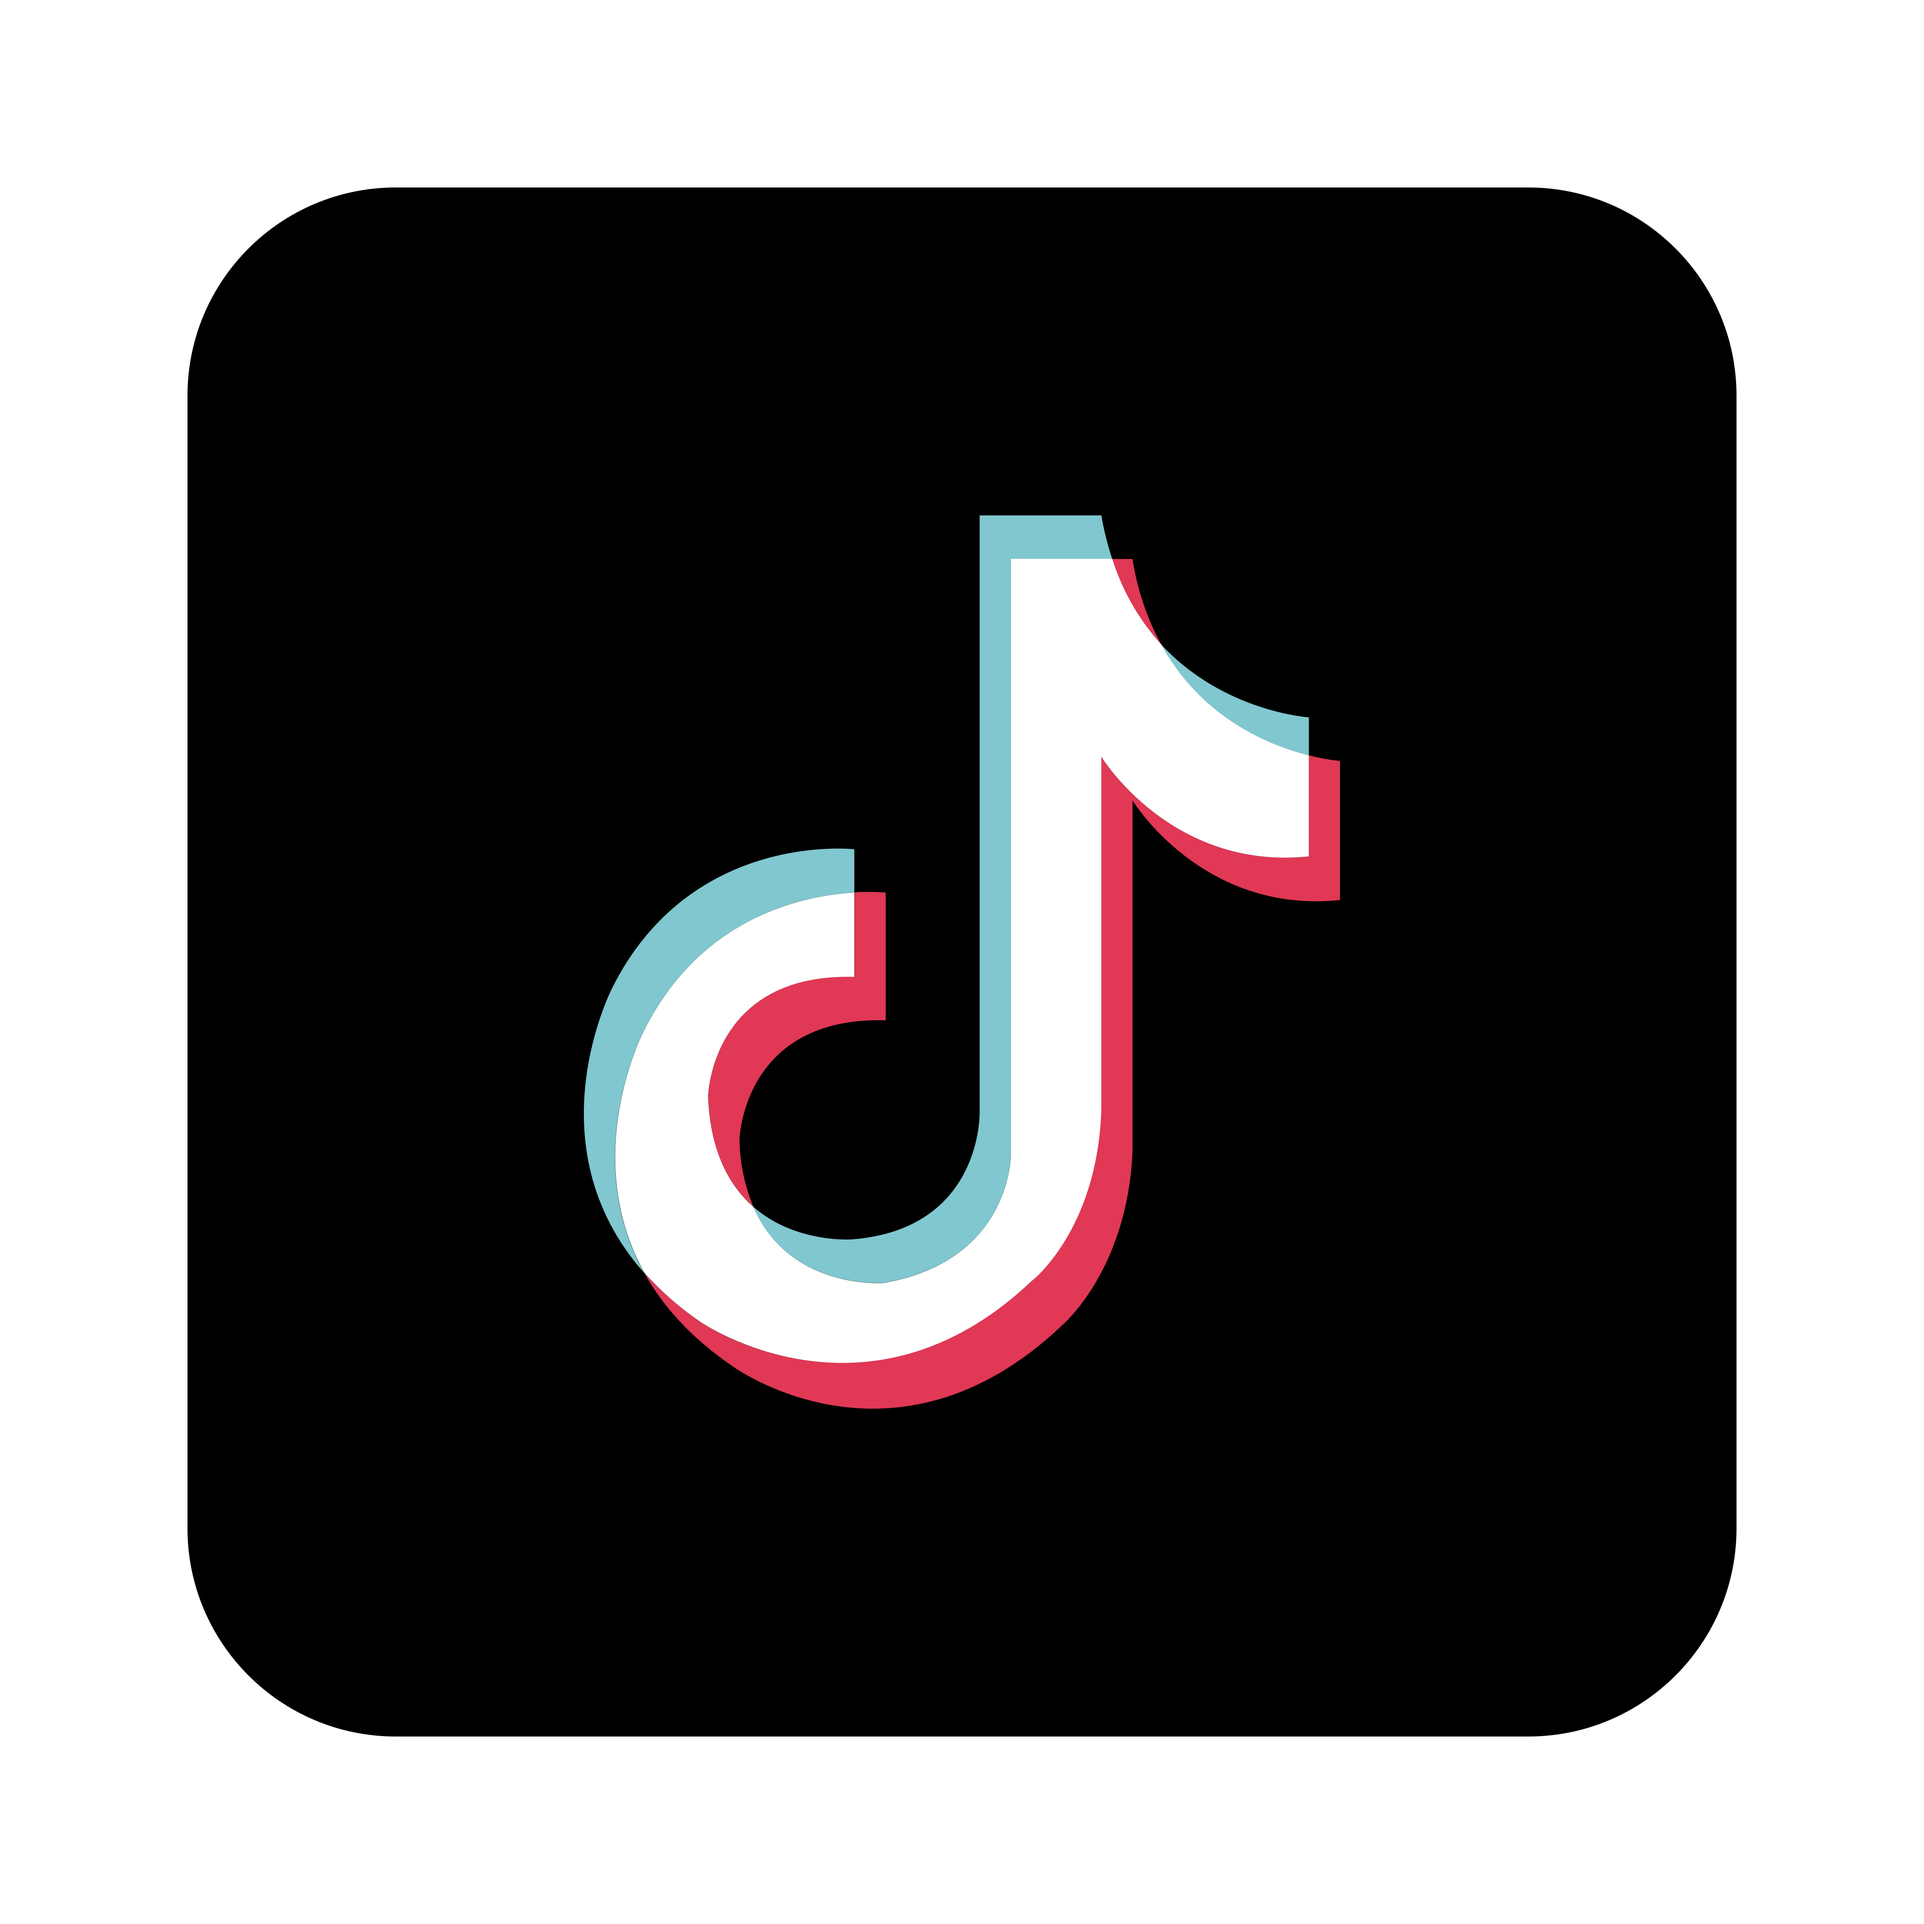
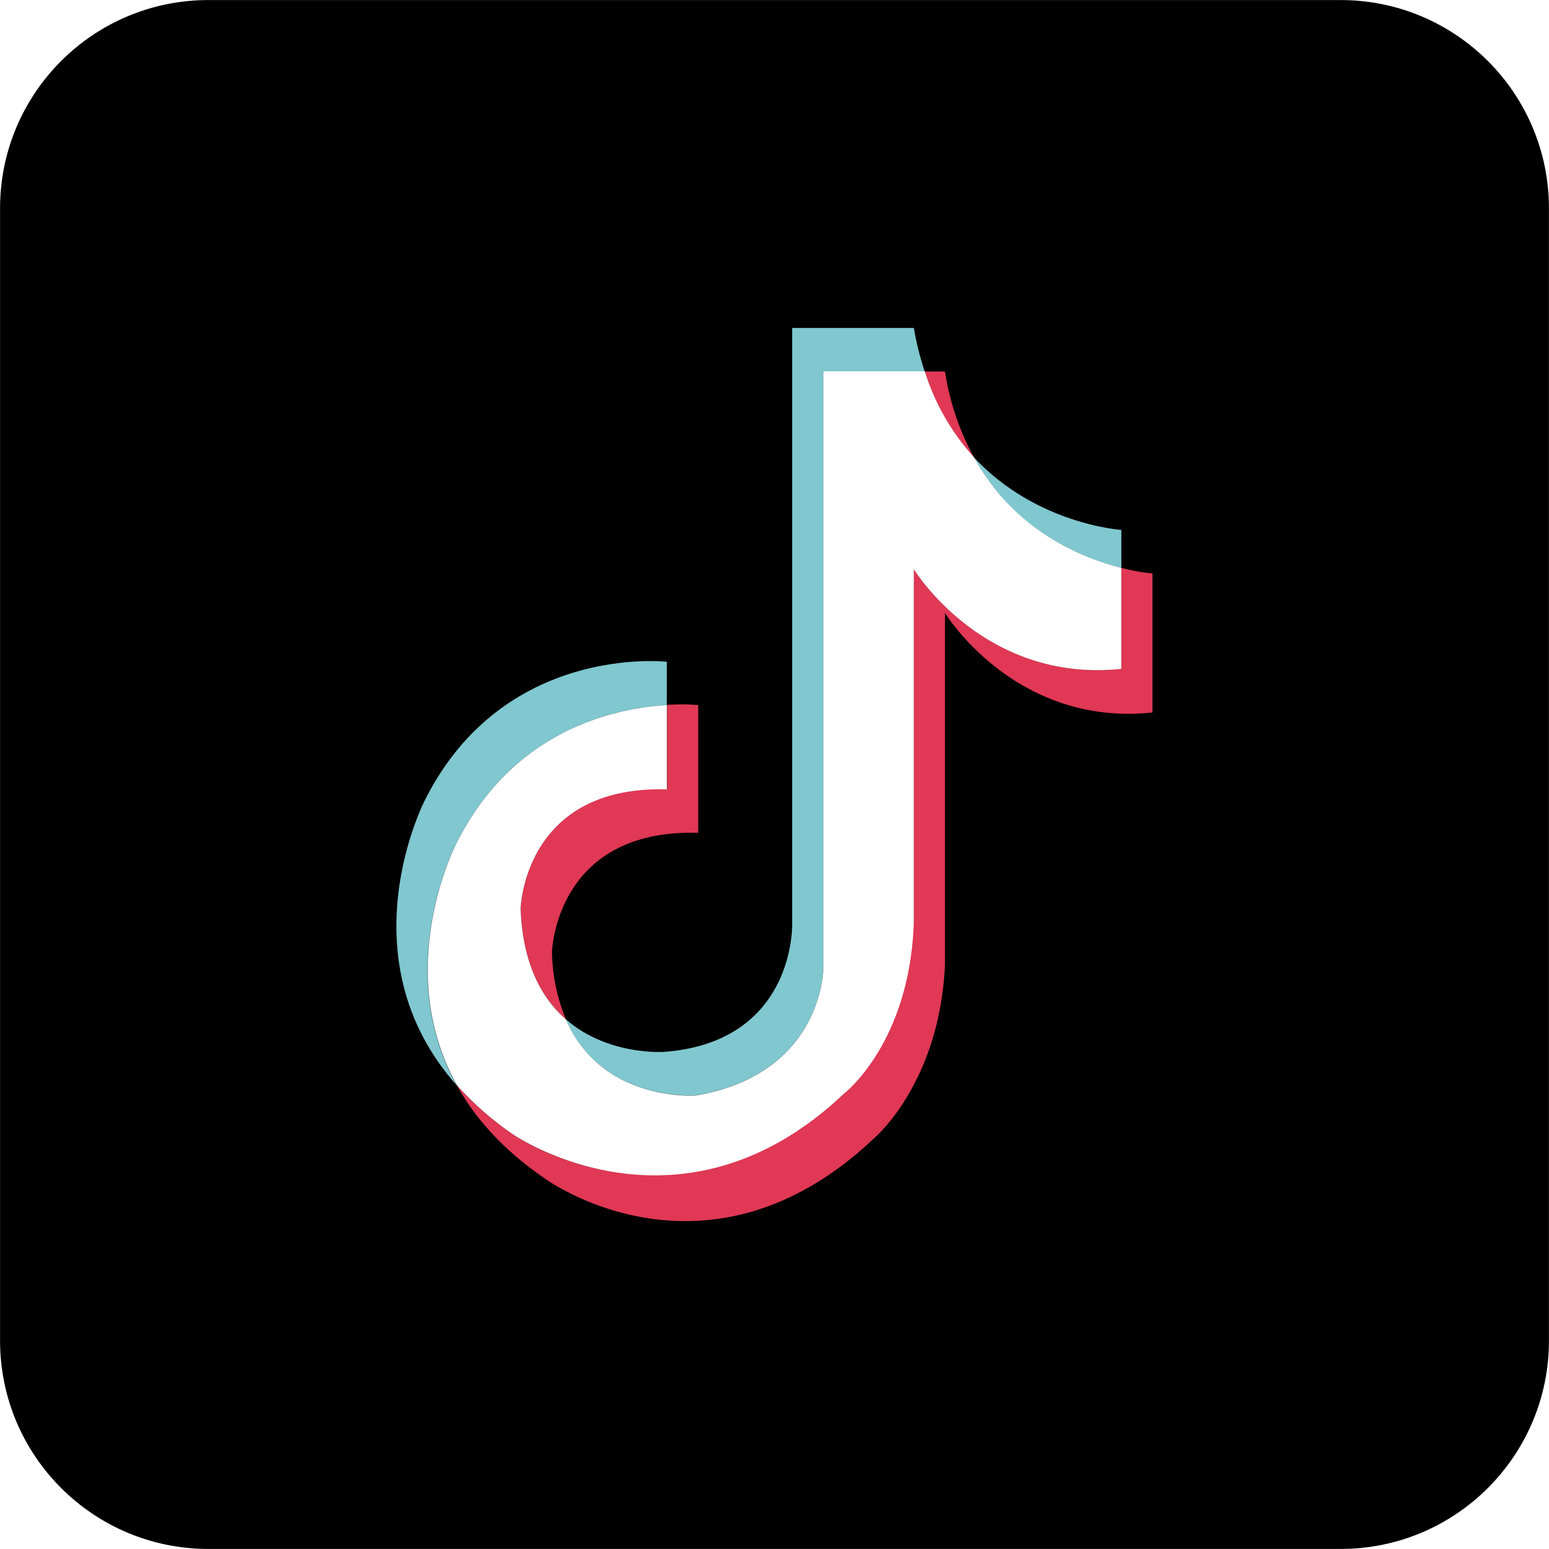
Tiktok update
Added tiktok link.

diff --git a/events.html b/events.html
@@ -60,6 +60,9 @@
                     <a href="https://t.me/lyceum4vn_bot">
                         <img src="https://cdn.iconscout.com/icon/free/png-256/free-bot-138-505021.png" alt="bot">
                     </a>
+                    <a href="https://www.tiktok.com/@lyceum4.vn?is_from_webapp=1&sender_device=pc">
+                        <img src="images/tiktok.png" alt="tiktok">
+                    </a>
                 </div>
             </li>
         </ul>
@@ -100,6 +103,9 @@
                     </a>
                     <a href="https://t.me/lyceum4vn_bot">
                         <img src="https://cdn.iconscout.com/icon/free/png-256/free-bot-138-505021.png" alt="bot">
+                    </a>
+                    <a href="https://www.tiktok.com/@lyceum4.vn?is_from_webapp=1&sender_device=pc">
+                        <img src="images/tiktok.png" alt="tiktok">
                     </a>
                 </div>
             </li>

diff --git a/gallery.html b/gallery.html
@@ -60,6 +60,9 @@
                     <a href="https://t.me/lyceum4vn_bot">
                         <img src="https://cdn.iconscout.com/icon/free/png-256/free-bot-138-505021.png" alt="bot">
                     </a>
+                    <a href="https://www.tiktok.com/@lyceum4.vn?is_from_webapp=1&sender_device=pc">
+                        <img src="images/tiktok.png" alt="tiktok">
+                    </a>
                 </div>
             </li>
         </ul>
@@ -100,6 +103,9 @@
                     </a>
                     <a href="https://t.me/lyceum4vn_bot">
                         <img src="https://cdn.iconscout.com/icon/free/png-256/free-bot-138-505021.png" alt="bot">
+                    </a>
+                    <a href="https://www.tiktok.com/@lyceum4.vn?is_from_webapp=1&sender_device=pc">
+                        <img src="images/tiktok.png" alt="tiktok">
                     </a>
                 </div>
             </li>

diff --git a/comand.html b/comand.html
@@ -59,6 +59,9 @@
                     <a href="https://t.me/lyceum4vn_bot">
                         <img src="https://cdn.iconscout.com/icon/free/png-256/free-bot-138-505021.png" alt="bot">
                     </a>
+                    <a href="https://www.tiktok.com/@lyceum4.vn?is_from_webapp=1&sender_device=pc">
+                        <img src="images/tiktok.png" alt="tiktok">
+                    </a>
                 </div>
             </li>
         </ul>
@@ -99,6 +102,9 @@
                     </a>
                     <a href="https://t.me/lyceum4vn_bot">
                         <img src="https://cdn.iconscout.com/icon/free/png-256/free-bot-138-505021.png" alt="bot">
+                    </a>
+                    <a href="https://www.tiktok.com/@lyceum4.vn?is_from_webapp=1&sender_device=pc">
+                        <img src="images/tiktok.png" alt="tiktok">
                     </a>
                 </div>
             </li>

diff --git a/contacts.html b/contacts.html
@@ -59,6 +59,9 @@
                     <a href="https://t.me/lyceum4vn_bot">
                         <img src="https://cdn.iconscout.com/icon/free/png-256/free-bot-138-505021.png" alt="bot">
                     </a>
+                    <a href="https://www.tiktok.com/@lyceum4.vn?is_from_webapp=1&sender_device=pc">
+                        <img src="images/tiktok.png" alt="tiktok">
+                    </a>
                 </div>
             </li>
         </ul>
@@ -99,6 +102,9 @@
                     </a>
                     <a href="https://t.me/lyceum4vn_bot">
                         <img src="https://cdn.iconscout.com/icon/free/png-256/free-bot-138-505021.png" alt="bot">
+                    </a>
+                    <a href="https://www.tiktok.com/@lyceum4.vn?is_from_webapp=1&sender_device=pc">
+                        <img src="images/tiktok.png" alt="tiktok">
                     </a>
                 </div>
             </li>

diff --git a/index.html b/index.html
@@ -59,6 +59,9 @@
                     <a href="https://t.me/lyceum4vn_bot">
                         <img src="https://cdn.iconscout.com/icon/free/png-256/free-bot-138-505021.png" alt="bot">
                     </a>
+                    <a href="https://www.tiktok.com/@lyceum4.vn?is_from_webapp=1&sender_device=pc">
+                        <img src="images/tiktok.png" alt="tiktok">
+                    </a>
                 </div>
             </li>
         </ul>
@@ -99,6 +102,9 @@
                     </a>
                     <a href="https://t.me/lyceum4vn_bot">
                         <img src="https://cdn.iconscout.com/icon/free/png-256/free-bot-138-505021.png" alt="bot">
+                    </a>
+                    <a href="https://www.tiktok.com/@lyceum4.vn?is_from_webapp=1&sender_device=pc">
+                        <img src="images/tiktok.png" alt="tiktok">
                     </a>
                 </div>
             </li>
